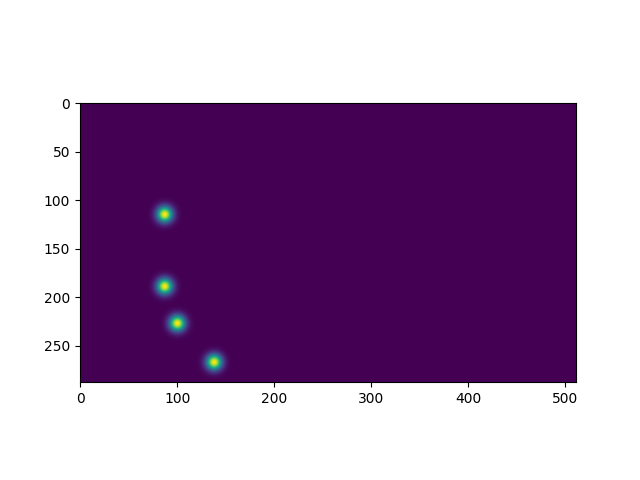
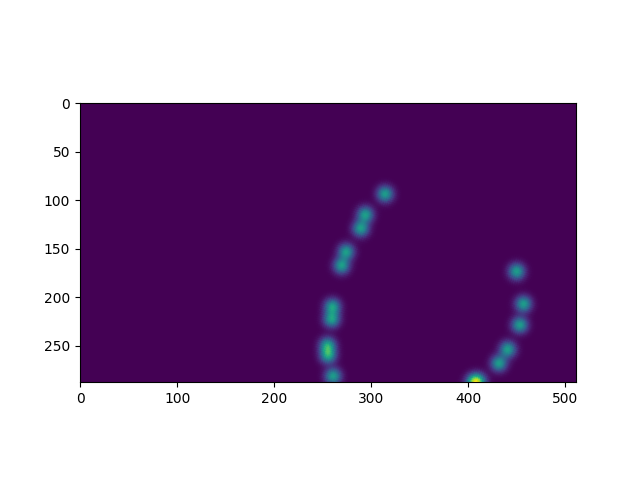
more aug

diff --git a/dataprocess.py b/dataprocess.py
@@ -127,11 +127,11 @@ class Medical_Data(Dataset):
             self.transform = A.Compose(
                     [
                         A.Resize(width=512, height=288),
-                        # A.RandomCrop(width=1280, height=720),
-                        # A.Rotate(limit=40, p=1, border_mode=cv2.BORDER_CONSTANT),
+                        A.Rotate(limit=40, p = 0.7, border_mode=cv2.BORDER_CONSTANT),
                         A.HorizontalFlip(p = 0.5),
                         A.VerticalFlip(p = 0.5),
                         A.ColorJitter(p = 0.5),
+                        A.RandomBrightnessContrast(p=0.5),
                         # A.OneOf([
                         #     A.Blur(blur_limit=3, p=0.5),
                         #     A.ColorJitter(p=0.5),

diff --git a/train.py b/train.py
@@ -18,10 +18,10 @@ from evaluation import evaluate
 from utils import get_device
 
 # 使用多GPU保存模型的时候记得加上.module
-gpus = [4, 5]
+gpus = [2, 3]
 torch.cuda.set_device('cuda:{}'.format(gpus[0]))
 
-train_name = 'ag_lr_ResnextUnet'
+train_name = 'mag_lr_ResnextUnet'
 # hyperparameter
 default_config = dict(
     batch_size=32,

diff --git a/README.md b/README.md
@@ -20,10 +20,17 @@ baseline augmentation
 - shearing in a range of ±0.1
 - brightness in a range of ±0.2
 - contrast in a range from 0.3 to 0.5
-- random sat- uration in a range from 0.5 to 2.0 and hue in a range of ±0.1
+- random saturation in a range from 0.5 to 2.0 and hue in a range of ±0.1
 - horizontally and vertically with a probability of 50%
 
 baseline also use 5-fold
+
+my augmentation
+- horizontally and vertically with a probability of 50%
+- rotation of ±40◦
+- ColorJitter(p = 0.5)
+- 
+
 
 ## Simu
 |  model         |  TPR(sensitivity)  |  PPV(Precision)    |
